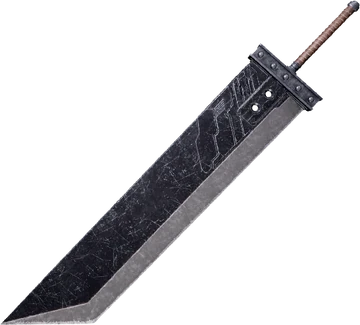
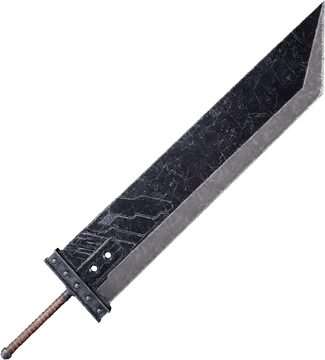
Add weapon swing animation

Changed region(s): [[0.0, 0.0, 1.0, 1.0]]

diff --git a/script.js b/script.js
@@ -6,10 +6,9 @@ function initWeapon(){
   weaponEl = document.getElementById("weapon");
   
   // buster sword offsets
-  weapon.style.transform = "scaleX(-1) rotate(90deg)";
-  weapon.style.transformOrigin = "bottom right";
-  weaponOffset.x = -360;
-  weaponOffset.y = 40;
+  weapon.style.transformOrigin = "bottom left";
+  weaponOffset.x = -280;
+  weaponOffset.y = -80;
 }
 function showWeapon(){
   weaponEl.style.visibility = "visible";
@@ -21,3 +20,14 @@ function moveWeapon(event){
   weaponEl.style.top = event.clientY + weaponOffset.y + "px";
   weaponEl.style.left = event.clientX + + weaponOffset.x + "px";
 }
+function swingWeapon(){
+  const weaponSwingAnim = [
+    { transform: "rotate(0)" },
+    { transform: "rotate(35deg)", offset: 0.2 },
+    { transform: "rotate(35deg)", offset: 0.5 },
+    { transform: "rotate(0)" },
+  ]
+  const weaponSwingTiming = { duration: 500, iterations: 1 }
+  weaponEl.animate(weaponSwingAnim, weaponSwingTiming);
+}
+

diff --git a/page.html b/page.html
@@ -64,6 +64,7 @@
           onmousemove="moveWeapon(event)"
           onmouseout="hideWeapon()"
           onmouseenter="showWeapon()"
+	  onmousedown="swingWeapon()"
         >
 	</div>
       </div>
